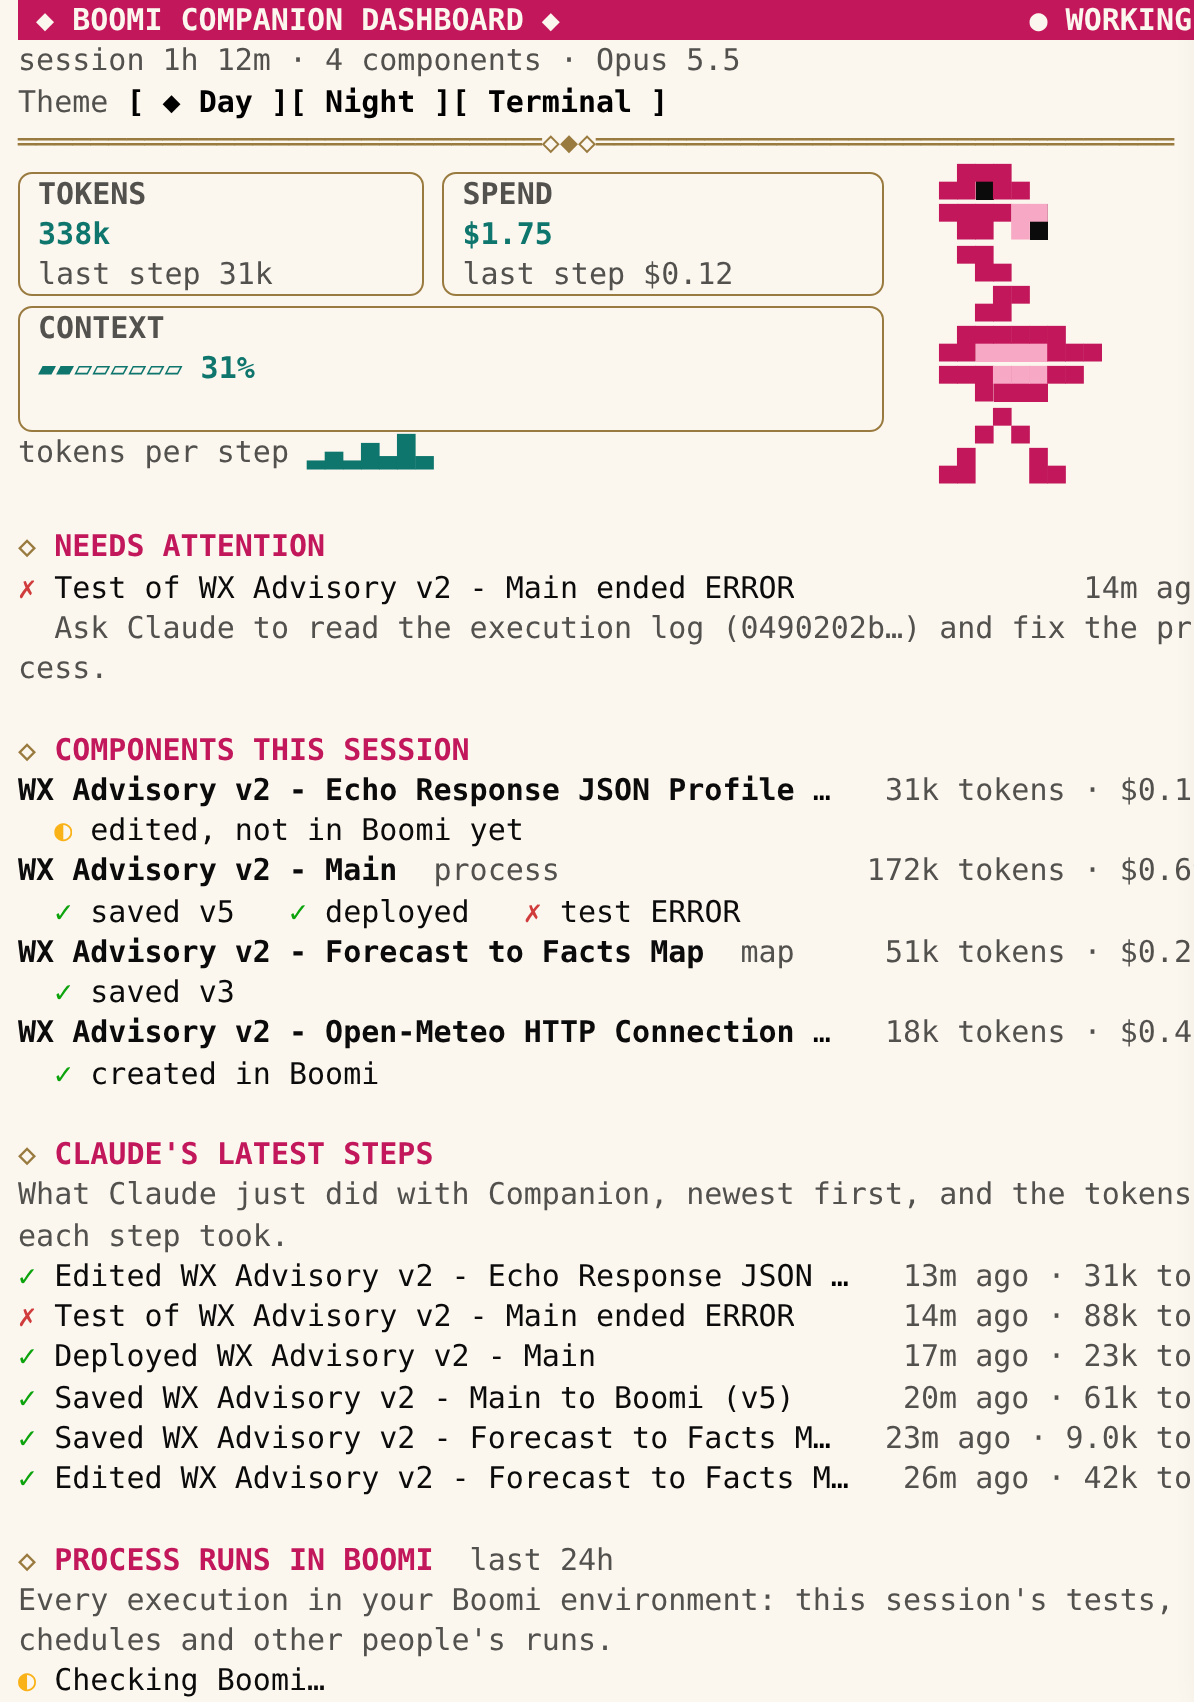
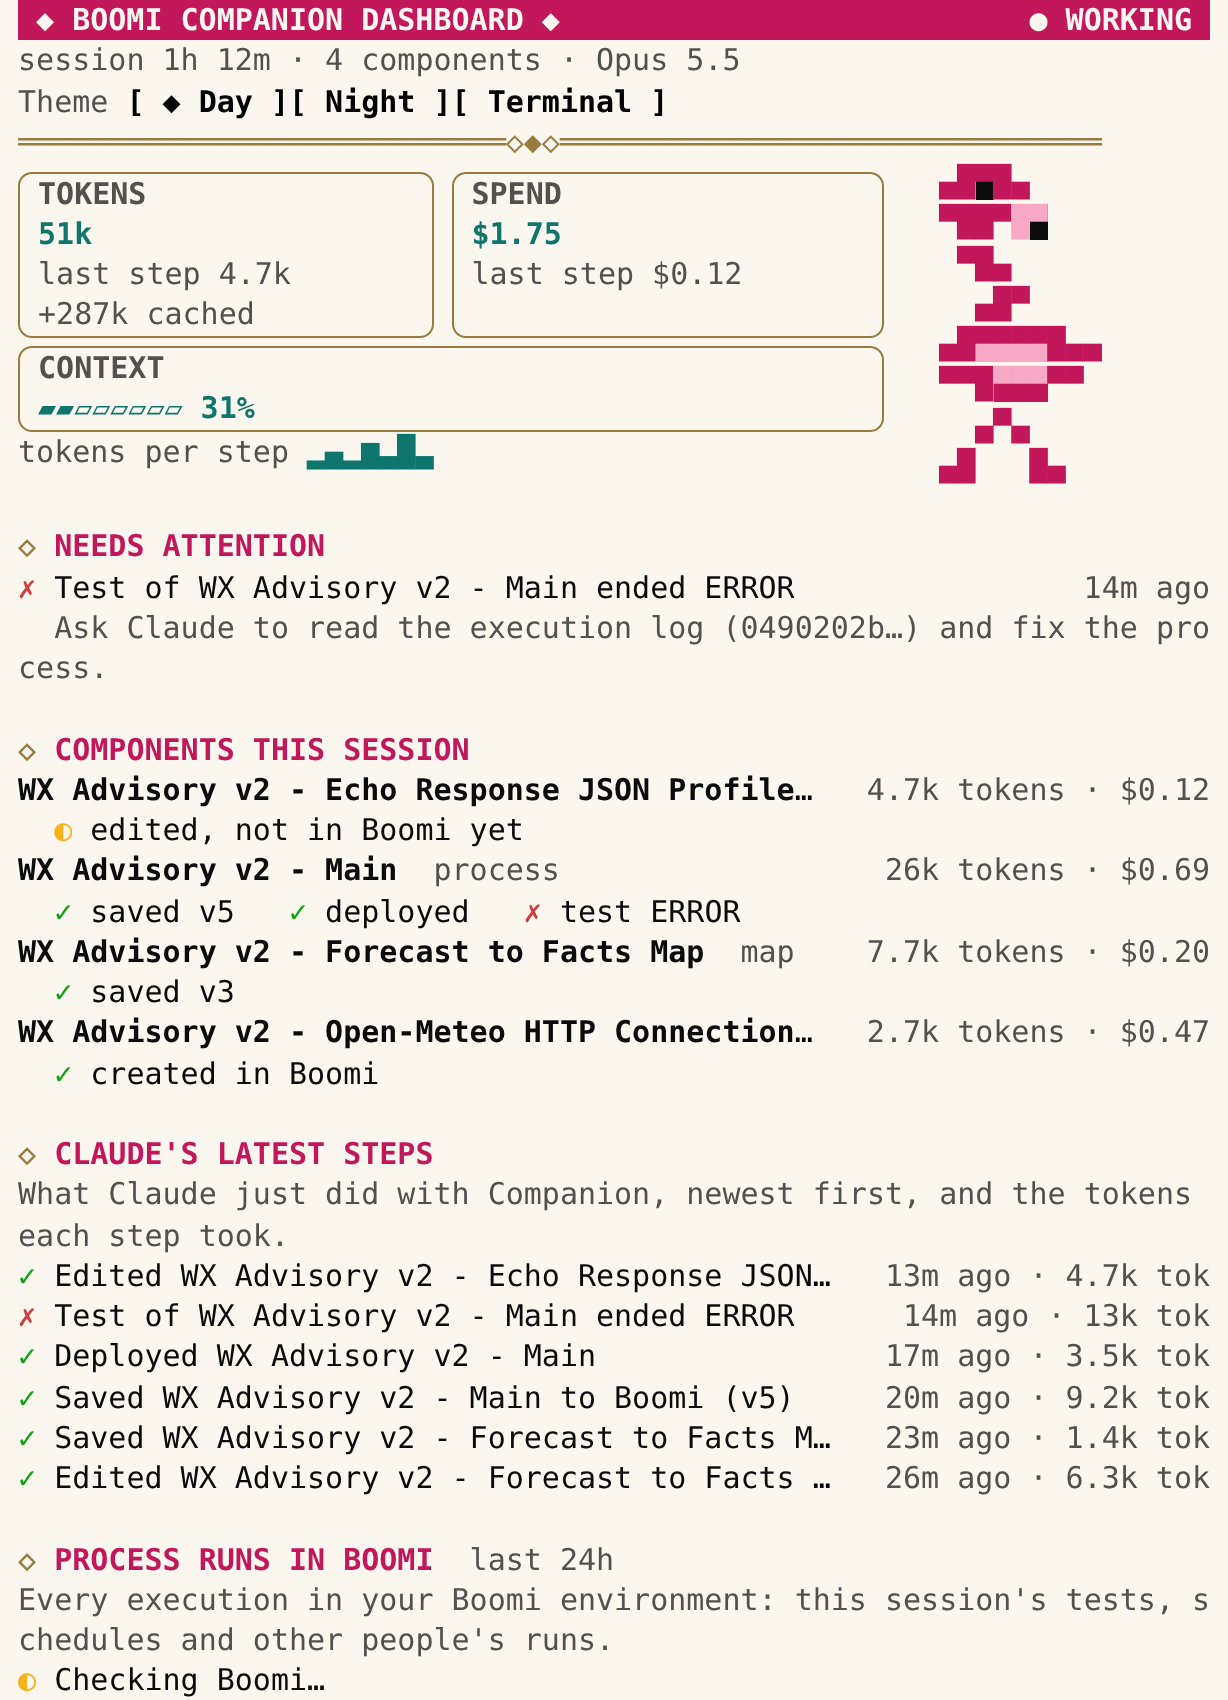
boomi-dashboard: a calmer flamingo with a clear one-leg pose; tidier gauges
- The flamingo moves on a frame every half second, down from three a
  second, and a column every second: it steps in place between moves.
- At rest it stands on one straight leg with the other folded up
  beside it, knee out, so the pose reads as a flamingo on one leg.
- It stays 12 by 16 pixels: a smaller sprite lost the long S-shaped
  neck and the bent, dark-tipped beak that make it read as a flamingo.
- A gauge's notes go one to a line, so "last step" and "cached" no
  longer stretch the tokens gauge across a whole row.
- The gold rule leaves room for the pane's padding and the surface's
  frame, and is cut at the edge rather than wrapping onto a second line.

Claude-Session: https://claude.ai/code/session_01H3rTU32G2ef7gXh1ZNcYaB

diff --git a/boomi-dashboard/hooks/register.tsx b/boomi-dashboard/hooks/register.tsx
@@ -108,6 +108,9 @@ const PANE = 'boomi-dashboard'
 const WATCH_KEY = 'watched'
 const THEME_KEY = 'theme'
 
+/** How often the flamingo's frame moves on while Claude works. */
+const FLAMINGO_TICK_MS = 500
+
 const THEMES: readonly PaneTheme[] = ['day', 'night', 'terminal']
 const THEME_NAMES: Record<PaneTheme, string> = { day: 'Day', night: 'Night', terminal: 'Terminal' }
 
@@ -592,9 +595,9 @@ export const register: Register = (on, options) => {
     }
 
     $.clock.every(5_000, () => refreshStatus($, settings))
-    // The flamingo walks while Claude works: about three frames a second.
+    // The flamingo walks while Claude works: a frame every half second, a column every second.
     if (settings.hasFlamingo) {
-      $.clock.every(320, async () => {
+      $.clock.every(FLAMINGO_TICK_MS, async () => {
         if (await read($, isWorking)) await update($, frame, n => (n + 1) % 1000)
       })
     }
@@ -745,7 +748,8 @@ export const register: Register = (on, options) => {
     const runs = recentRuns(current.platform.runs, now, settings.windowMs)
     const feed = current.activity.slice(-6).reverse()
     const all = spends(current.activity)
-    const width = Math.max(30, (e.viewport?.columns ?? 64) - 2)
+    // The pane's padding and the surface's own frame take a few columns: leave room for both.
+    const width = Math.max(30, (e.viewport?.columns ?? 64) - 6)
     const trail = current.activity
       .slice(-24)
       .map(a => all.get(a.id)?.tokens ?? 0)
@@ -781,11 +785,12 @@ export const register: Register = (on, options) => {
         {aside ? <Box flexShrink={0}>{t(`  ${aside}`, { color: p.muted })}</Box> : undefined}
       </Box>
     )
-    const gauge = (label: string, value: string, note?: string) => (
+    // A gauge's notes go one to a line, so the gauges stay narrow enough to sit side by side.
+    const gauge = (label: string, value: string, ...notes: (string | undefined)[]) => (
       <Box flexDirection="column" borderStyle="round" borderColor={p.rule} backgroundColor={p.bg} paddingX={1} flexGrow={1} minWidth={14}>
         {t(label, { color: p.muted, bold: true })}
         {t(value, { color: p.accent, bold: true })}
-        {note ? t(note, { color: p.muted }) : t(' ')}
+        {notes.filter(Boolean).map(note => t(note!, { color: p.muted }))}
       </Box>
     )
 
@@ -810,7 +815,9 @@ export const register: Register = (on, options) => {
             ))}
           </Box>
         </Box>
-        {t(decoRule(width), { color: p.rule })}
+        <Text color={p.rule} backgroundColor={p.bg} wrap="truncate-end">
+          {decoRule(width)}
+        </Text>
 
         <Box>
           <Box flexDirection="column" flexGrow={1} flexShrink={1}>
@@ -818,9 +825,8 @@ export const register: Register = (on, options) => {
               {gauge(
                 'TOKENS',
                 usage.tokens ? formatTokens(usage.tokens) : '—',
-                [last?.tokens ? `last step ${formatTokens(last.tokens)}` : undefined, usage.cached ? `+${formatTokens(usage.cached)} cached` : undefined]
-                  .filter(Boolean)
-                  .join(' · ') || undefined,
+                last?.tokens ? `last step ${formatTokens(last.tokens)}` : undefined,
+                usage.cached ? `+${formatTokens(usage.cached)} cached` : undefined,
               )}
               {gauge('SPEND', formatCost(usage.usd) ?? '—', last?.usd ? `last step ${formatCost(last.usd)}` : undefined)}
               {gauge(

diff --git a/boomi-dashboard/hooks/activity.ts b/boomi-dashboard/hooks/activity.ts
@@ -807,9 +807,11 @@ export const newFailures = (known: readonly Run[], fresh: readonly Run[]): Run[]
 }
 
 // --- The flamingo ---------------------------------------------------------------
-// An 8-bit flamingo, 12 pixels wide and 16 tall. Each letter is a pixel:
-// P is the flamingo's pink, L its pastel (wing and beak), K ink (eye and beak
-// tip), and a dot is clear. Two pixel rows make one row of terminal cells.
+// An 8-bit flamingo, 12 pixels wide and 16 tall, facing right. Each letter is
+// a pixel: P is the flamingo's pink, L its pastel (wing and beak), K ink (eye
+// and beak tip), and a dot is clear. Two pixel rows make one row of terminal
+// cells. The long S-shaped neck and the bent, dark-tipped beak are what make it
+// read as a flamingo, so the sprite keeps the room for them.
 
 const HEAD = [
   '....PPP.....',
@@ -825,7 +827,8 @@ const HEAD = [
 const WING_DOWN = ['....PPPPPP..', '...PPLLLLPPP', '...PPPLLLPP.', '.....PPPP...']
 const WING_UP = ['....PPLLLP..', '...PPLLLLPPP', '...PPPPPPPP.', '.....PPPP...']
 
-const ONE_LEG = ['......PPP...', '......P.....', '......P.....', '.....PP.....']
+/** Resting: one straight leg down to its foot, the other folded up beside it, knee out. */
+const ONE_LEG = ['......P.PPP.', '......P..P..', '......P.....', '.....PP.....']
 const STRIDE = ['......P.....', '.....P.P....', '....P...P...', '...PP...PP..']
 const STEP = ['......P.....', '......PP....', '.....P..P...', '....PP...PP.']
 
@@ -843,6 +846,9 @@ export const FLAMINGO_WALK: readonly (readonly string[])[] = [
 /** The flamingo's pixels for a frame: walking while working, else standing. */
 export const flamingo = (isWorking: boolean, frame: number): readonly string[] =>
   isWorking ? FLAMINGO_WALK[frame % FLAMINGO_WALK.length]! : FLAMINGO_IDLE
+
+/** How many animation frames it takes the flamingo to move one column: it steps in place between moves. */
+export const FRAMES_PER_STEP = 2
 
 /** How many columns the flamingo paces across while Claude works. */
 export const FLAMINGO_TRAVEL = 6
@@ -866,7 +872,7 @@ export const pace = (frame: number, travel = FLAMINGO_TRAVEL): { offset: number;
  * the spot and the way it faced when Claude stopped.
  */
 export const flamingoView = (isWorking: boolean, frame: number, travel = FLAMINGO_TRAVEL) => {
-  const { offset, facing } = pace(frame, travel)
+  const { offset, facing } = pace(Math.floor(frame / FRAMES_PER_STEP), travel)
   const pixels = flamingo(isWorking, frame)
   return { pixels: facing === 'right' ? [...pixels] : mirror(pixels), offset, facing }
 }

diff --git a/boomi-dashboard/tests/activity.test.ts b/boomi-dashboard/tests/activity.test.ts
@@ -267,6 +267,9 @@ test('the 8-bit flamingo stands on one leg when idle and walks through its frame
     expect(f.length).toBe(16)
     expect(f.every(row => row.length === 12)).toBe(true)
   }
+  // Resting on one leg: a single leg reaches the ground, the other is folded up.
+  expect(FLAMINGO_IDLE[FLAMINGO_IDLE.length - 1]).toBe('.....PP.....')
+  expect(FLAMINGO_IDLE[FLAMINGO_IDLE.length - 2]).toBe('......P.....')
 })
 
 test('pixelCells packs two pixel rows into each cell with half blocks', () => {
@@ -332,11 +335,14 @@ test('the flamingo paces across its strip and turns at each end', () => {
 
 test('facing left, the flamingo is drawn mirrored', () => {
   expect(mirror(['P..L'])).toEqual(['L..P'])
+  // It moves a column every second frame: frame 14 is step 7, on the way back.
   const right = flamingoView(true, 1)
-  const left = flamingoView(true, 7)
+  const left = flamingoView(true, 14)
   expect(right.facing).toBe('right')
   expect(left.facing).toBe('left')
-  expect(left.pixels).toEqual(mirror(flamingo(true, 7)))
+  expect(left.pixels).toEqual(mirror(flamingo(true, 14)))
+  expect(flamingoView(true, 2).offset).toBe(1)
+  expect(flamingoView(true, 3).offset).toBe(1)
   expect(right.pixels).toEqual([...flamingo(true, 1)])
 })
 

diff --git a/boomi-dashboard/tests/plugin.test.ts b/boomi-dashboard/tests/plugin.test.ts
@@ -266,7 +266,8 @@ for (const surface of ['terminal', 'desktop'] as const) {
     expect(names.some(n => n.props.color === '#0B0B0B' && n.props.backgroundColor === '#FBF6EE')).toBe(true)
     expect(await pane.find({ text: 'TOKENS' })).toBeDefined()
     expect(await pane.find({ text: '6.0k' })).toBeDefined()
-    expect(await pane.find({ text: 'last step 6.0k · +6.0k cached' })).toBeDefined()
+    expect(await pane.find({ text: 'last step 6.0k' })).toBeDefined()
+    expect(await pane.find({ text: '+6.0k cached' })).toBeDefined()
     expect(await pane.find({ text: '$1.25' })).toBeDefined()
     expect(await pane.find({ text: /▰▱+ 12%/ })).toBeDefined()
     expect(await pane.find({ text: /saved v4/ })).toBeDefined()
@@ -324,7 +325,7 @@ for (const surface of ['terminal', 'desktop'] as const) {
     await $.turn.start({ text: 'go', turnId: 't1' } as never)
     const walking = await bird()
     expect(walking).not.toBe(standing)
-    await clock.advance(320)
+    await clock.advance(500)
     expect(await bird()).not.toBe(walking)
   })
 
